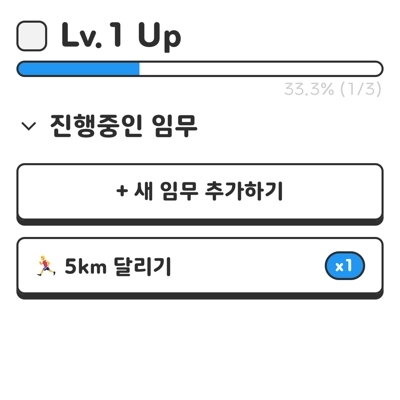
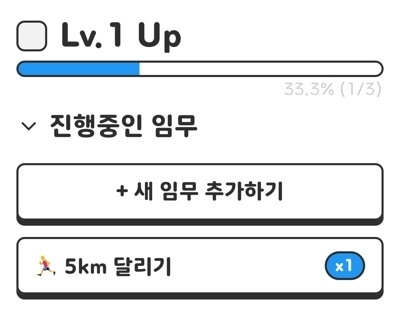
chore: 가이드 이미지 일부 수정

diff --git a/src/features/misc/components/GuideModal/GuideModal.tsx b/src/features/misc/components/GuideModal/GuideModal.tsx
@@ -49,7 +49,6 @@ const GuideContent = styled(View)({
 const GuideImage = styled(Image)({
   flex: 1,
   width: '100%',
-  height: undefined,
   overflow: 'hidden',
 });
 
@@ -103,7 +102,7 @@ export const GuideModal = memo(function GuideModal(
         {width === 0 ? null : (
           <Carousel
             data={GUIDE_DATA}
-            height={300}
+            height={350}
             loop
             renderItem={renderItem}
             scrollAnimationDuration={1000}
